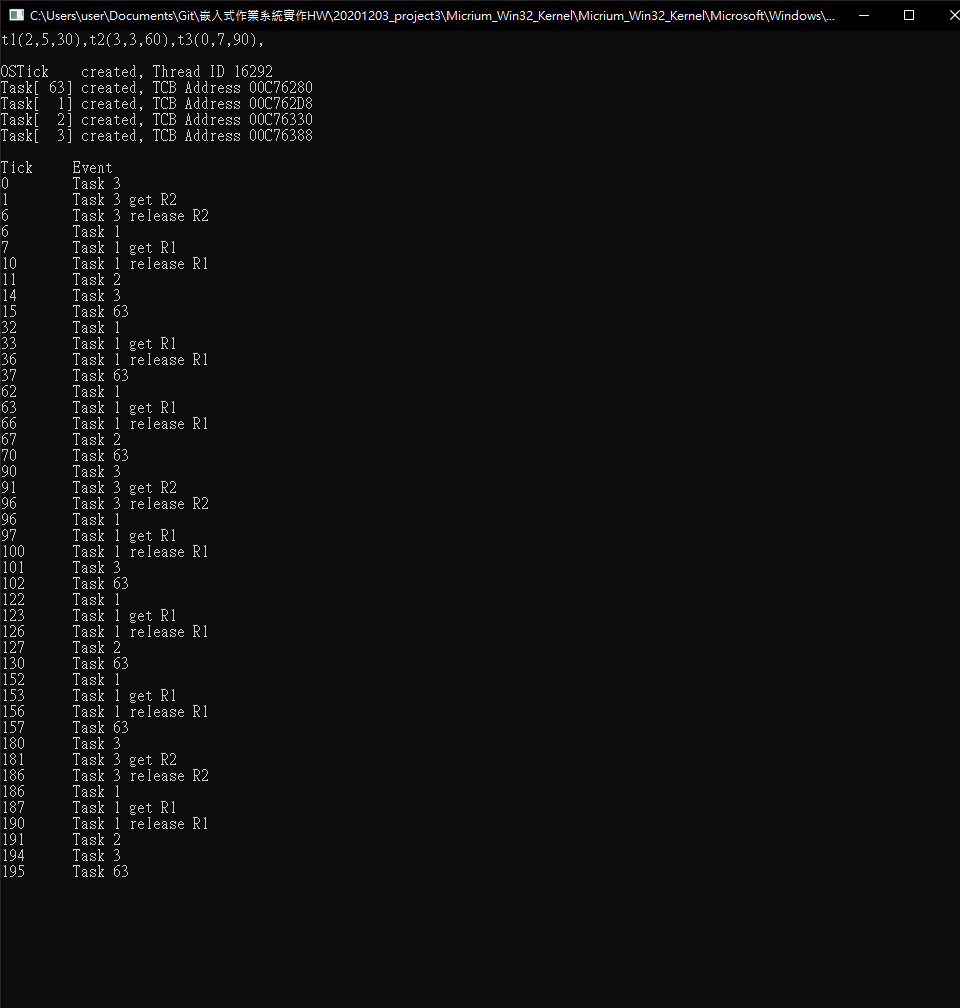
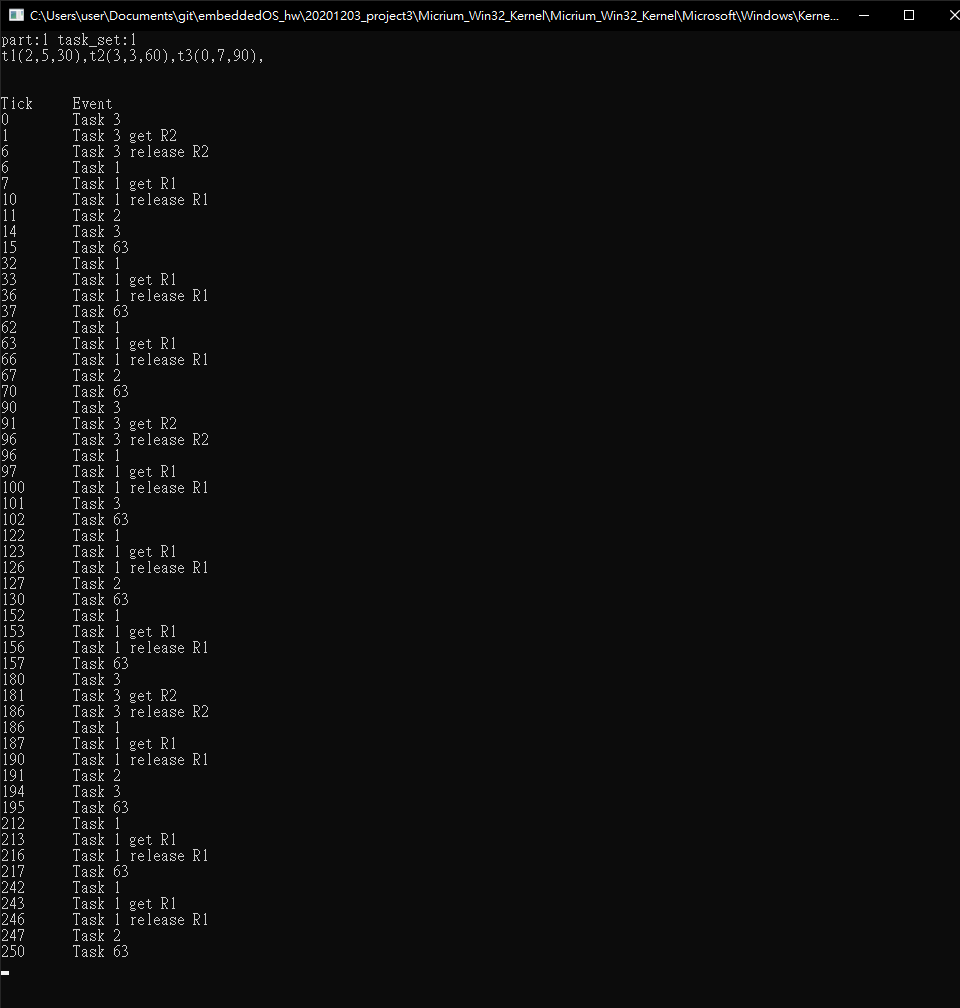
taskStart taskEnd

diff --git a/20201203_project3/Micrium_Win32_Kernel/Micrium_Win32_Kernel/Microsoft/Windows/Kernel/OS2/main.c b/20201203_project3/Micrium_Win32_Kernel/Micrium_Win32_Kernel/Microsoft/Windows/Kernel/OS2/main.c
@@ -238,116 +238,6 @@ static  void  StartupTask (void *p_arg)
 }
 
 /****************************************************************************************************
-*                      mywait
-* **************************************************************************************************/
-void mywait(int tick)
-{
-#if OS_CRITICAL_METHOD == 3
-    OS_CPU_SR cpu_sr = 0;
-#endif
-    // int now, exit;
-    int last, diff, taskNum, count = 0;
-    OS_ENTER_CRITICAL();
-    // now = OSTimeGet(); // Original but it will miss when interrupt
-    // exit = now + tick; // Original but it will miss when interrupt
-    last = OSTimeGet();
-    taskNum = OSTCBCur->OSTCBId; 
-    OS_EXIT_CRITICAL();
-    while (1)
-    {
-        OS_ENTER_CRITICAL();
-        diff = OSTimeGet() - last;
-        last = OSTimeGet();
-        if(diff >= 1)
-        {
-            count ++;
-            // printf(" \t # Task %d count:%d diff:%d\n", taskNum, count, diff); // debug
-        }
-         OS_EXIT_CRITICAL();
-
-        // if (exit <= OSTimeGet()) // Original but it will miss when interrupt
-        if (tick <= count)
-        {
-            break;
-        }
-    }
-    
-}
-
-/****************************************************************************************************
-*                      lock & unlock
-* **************************************************************************************************/
-
-void lock_R(int rVar) {
-    // INT8U err;
-    #if kevin_part == 1u
-    printf("%d \t Task %d get R%d \n", OSTimeGet(), OSTCBCur->OSTCBId, rVar);
-    OSSchedLock();
-    #elif kevin_part == 2u
-    int R_PRIO;
-    INT8U *OrgPrio;
-    if(rVar == 1)
-    {
-        R_PRIO = R1_PRIO;
-        OrgPrio = &(OSTCBCur->OrgPrio1);
-    }
-    else if (rVar == 2)
-    {
-        R_PRIO = R2_PRIO;
-        OrgPrio = &(OSTCBCur->OrgPrio2);
-    }
-    else
-    {   
-        printf("error! no rVar input\n");
-        while(1);
-    }
-    // OSMutexPend(R1, 0, &err);
-    INT8U prioVar = OSTCBCur->OSTCBPrio;
-    *OrgPrio = 0;
-    if(OSTCBCur->OSTCBPrio > R_PRIO)
-    {
-        prioVar = R_PRIO;
-    }
-    printf("%d \t Task %d get R%d     \t %d->%d \n", OSTimeGet(), OSTCBCur->OSTCBId, rVar, OSTCBCur->OSTCBPrio, prioVar);
-    if(prioVar != OSTCBCur->OSTCBPrio)
-    {
-        *OrgPrio = OSTCBCur->OSTCBPrio;
-        OSTaskChangePrio(OSTCBCur->OSTCBPrio, R_PRIO);
-    }
-    #endif
-}
-
-void unlock_R(int rVar) {
-    // INT8U err;
-    #if kevin_part == 1u
-    printf("%d \t Task %d release R%d \n", OSTimeGet(), OSTCBCur->OSTCBId, rVar);
-    OSSchedUnlock();
-    #elif kevin_part == 2u
-    INT8U *OrgPrio;
-    if(rVar == 1)
-        OrgPrio = &(OSTCBCur->OrgPrio1);
-    else if (rVar == 2)
-        OrgPrio = &(OSTCBCur->OrgPrio2);
-    else
-    {   
-        printf("error! no rVar input\n");
-        while(1);
-    }
-    // OSMutexPost(R1);
-    INT8U prioVar = OSTCBCur->OSTCBPrio;
-    if(*OrgPrio != 0)
-    {
-        prioVar = *OrgPrio;
-    }
-    printf("%d \t Task %d release R%d \t %d->%d \n", OSTimeGet(), OSTCBCur->OSTCBId, rVar, OSTCBCur->OSTCBPrio, prioVar);
-    if(prioVar != OSTCBCur->OSTCBPrio)
-    {
-        OSTaskChangePrio(OSTCBCur->OSTCBPrio, prioVar);
-    }
-    #endif
-}
-
-/****************************************************************************************************
 *                      task1
 * **************************************************************************************************/
 void task1(void* p_arg) {
@@ -355,14 +245,7 @@ void task1(void* p_arg) {
     // INT8U err;
     OSTimeDly(kevin_task1_periodic->arrival);
     while (1) {
-        // printf("Hello from task1\n");
-        // while (1); // kevin 讓他一直卡在裡面 靠OSintexit來切
-        
-        if(!(OSTimeGet()))
-            printf("%d \t Task %d\n", OSTimeGet(), OSTCBCur->OSTCBId);
-        kevin_task1_periodic->deadline = kevin_task1_periodic->arrival + kevin_task1_periodic->period * (kevin_task1_periodic->job + 1);
-        // printf("%d \t # Task 1 deadline:%d\n", OSTimeGet(), kevin_task1_periodic->deadline); // debug
-
+        taskStart();
         /****************************************************************************************************
          *                      Example task set 1
          * **************************************************************************************************/
@@ -414,11 +297,7 @@ void task1(void* p_arg) {
         mywait(1);
         #endif
         /*****************************************************************************************************/
-
-        kevin_task1_periodic->job ++;
-        // printf("%d \t # Task 1 OSTimeDly:%d\n", OSTimeGet(), kevin_task1_periodic->deadline - OSTimeGet()); // debug
-        OSTimeDly(kevin_task1_periodic->deadline - OSTimeGet());
-
+        taskEnd();
     }
 }
 
@@ -430,14 +309,7 @@ void task2(void* p_arg) {
     // INT8U err;
     OSTimeDly(kevin_task2_periodic->arrival);
     while (1) {
-        // printf("Hello from task2\n");
-        // while (1); // kevin 讓他一直卡在裡面 靠OSintexit來切
-
-        if(!(OSTimeGet()))
-            printf("%d \t Task %d\n", OSTimeGet(), OSTCBCur->OSTCBId);
-        kevin_task2_periodic->deadline = kevin_task2_periodic->arrival + kevin_task2_periodic->period * (kevin_task2_periodic->job + 1);
-        // printf("%d \t # Task 2 deadline:%d\n", OSTimeGet(), kevin_task2_periodic->deadline); // debug
-
+        taskStart();
         /****************************************************************************************************
          *                      Example task set 1
          * **************************************************************************************************/
@@ -492,10 +364,7 @@ void task2(void* p_arg) {
         mywait(1);
         #endif
         /*****************************************************************************************************/
-
-        kevin_task2_periodic->job ++;
-        // printf("%d \t # Task 2 OSTimeDly:%d\n", OSTimeGet(), kevin_task2_periodic->deadline - OSTimeGet()); // debug
-        OSTimeDly(kevin_task2_periodic->deadline - OSTimeGet());
+        taskEnd();
     }
 }
 
@@ -507,15 +376,7 @@ void task3(void* p_arg) {
     // INT8U err;
     OSTimeDly(kevin_task3_periodic->arrival);
     while (1) {
-        // printf("Hello from task3\n");
-        // while (1); // kevin 讓他一直卡在裡面 靠OSintexit來切
-
-        if(!(OSTimeGet()))
-            printf("%d \t Task %d\n", OSTimeGet(), OSTCBCur->OSTCBId);
-        kevin_task3_periodic->deadline = kevin_task3_periodic->arrival + kevin_task3_periodic->period * (kevin_task3_periodic->job + 1);
-        // printf("%d \t # Task 2 deadline:%d\n", OSTimeGet(), kevin_task3_periodic->deadline); // debug
-
-        
+        taskStart();
         /****************************************************************************************************
          *                      task set 1
          * **************************************************************************************************/
@@ -528,9 +389,6 @@ void task3(void* p_arg) {
         mywait(1);
         #endif
         /*****************************************************************************************************/
-        
-        kevin_task3_periodic->job ++;
-        // printf("%d \t # Task 2 OSTimeDly:%d\n", OSTimeGet(), kevin_task3_periodic->deadline - OSTimeGet()); // debug
-        OSTimeDly(kevin_task3_periodic->deadline - OSTimeGet());
+        taskEnd();
     }
 }

diff --git a/20201203_project3/Micrium_Win32_Kernel/Micrium_Win32_Kernel/Micrium/Software/uCOS-II/Source/os_core.c b/20201203_project3/Micrium_Win32_Kernel/Micrium_Win32_Kernel/Micrium/Software/uCOS-II/Source/os_core.c
@@ -2523,4 +2523,143 @@ void Kevin_end(void){
         kevin_arr_task_periodic[kevin_task_num].deadline = 0;
     }
 }
+
+/****************************************************************************************************
+*                      mywait
+* **************************************************************************************************/
+void mywait(int tick)
+{
+#if OS_CRITICAL_METHOD == 3
+    OS_CPU_SR cpu_sr = 0;
+#endif
+    // int now, exit;
+    int last, diff, taskNum, count = 0;
+    OS_ENTER_CRITICAL();
+    // now = OSTimeGet(); // Original but it will miss when interrupt
+    // exit = now + tick; // Original but it will miss when interrupt
+    last = OSTimeGet();
+    taskNum = OSTCBCur->OSTCBId; 
+    OS_EXIT_CRITICAL();
+    while (1)
+    {
+        OS_ENTER_CRITICAL();
+        diff = OSTimeGet() - last;
+        last = OSTimeGet();
+        if(diff >= 1)
+        {
+            count ++;
+            // printf(" \t # Task %d count:%d diff:%d\n", taskNum, count, diff); // debug
+        }
+         OS_EXIT_CRITICAL();
+
+        // if (exit <= OSTimeGet()) // Original but it will miss when interrupt
+        if (tick <= count)
+        {
+            break;
+        }
+    }
+}
+
+/****************************************************************************************************
+*                      lock
+* **************************************************************************************************/
+
+void lock_R(int rVar) {
+    // INT8U err;
+    #if kevin_part == 1u
+    printf("%d \t Task %d get R%d \n", OSTimeGet(), OSTCBCur->OSTCBId, rVar);
+    OSSchedLock();
+    #elif kevin_part == 2u
+    int R_PRIO;
+    INT8U *OrgPrio;
+    if(rVar == 1)
+    {
+        R_PRIO = R1_PRIO;
+        OrgPrio = &(OSTCBCur->OrgPrio1);
+    }
+    else if (rVar == 2)
+    {
+        R_PRIO = R2_PRIO;
+        OrgPrio = &(OSTCBCur->OrgPrio2);
+    }
+    else
+    {   
+        printf("error! no rVar input\n");
+        while(1);
+    }
+    // OSMutexPend(R1, 0, &err);
+    INT8U prioVar = OSTCBCur->OSTCBPrio;
+    *OrgPrio = 0;
+    if(OSTCBCur->OSTCBPrio > R_PRIO)
+    {
+        prioVar = R_PRIO;
+    }
+    printf("%d \t Task %d get R%d     \t %d->%d \n", OSTimeGet(), OSTCBCur->OSTCBId, rVar, OSTCBCur->OSTCBPrio, prioVar);
+    if(prioVar != OSTCBCur->OSTCBPrio)
+    {
+        *OrgPrio = OSTCBCur->OSTCBPrio;
+        OSTaskChangePrio(OSTCBCur->OSTCBPrio, R_PRIO);
+    }
+    #endif
+}
+
+/****************************************************************************************************
+*                      unlock
+* **************************************************************************************************/
+void unlock_R(int rVar) {
+    // INT8U err;
+    #if kevin_part == 1u
+    printf("%d \t Task %d release R%d \n", OSTimeGet(), OSTCBCur->OSTCBId, rVar);
+    OSSchedUnlock();
+    #elif kevin_part == 2u
+    INT8U *OrgPrio;
+    if(rVar == 1)
+        OrgPrio = &(OSTCBCur->OrgPrio1);
+    else if (rVar == 2)
+        OrgPrio = &(OSTCBCur->OrgPrio2);
+    else
+    {   
+        printf("error! no rVar input\n");
+        while(1);
+    }
+    // OSMutexPost(R1);
+    INT8U prioVar = OSTCBCur->OSTCBPrio;
+    if(*OrgPrio != 0)
+    {
+        prioVar = *OrgPrio;
+    }
+    printf("%d \t Task %d release R%d \t %d->%d \n", OSTimeGet(), OSTCBCur->OSTCBId, rVar, OSTCBCur->OSTCBPrio, prioVar);
+    if(prioVar != OSTCBCur->OSTCBPrio)
+    {
+        OSTaskChangePrio(OSTCBCur->OSTCBPrio, prioVar);
+    }
+    #endif
+}
+
+/****************************************************************************************************
+*                      task start
+* **************************************************************************************************/
+void taskStart()
+{
+    // printf("Hello from task%d\n", OSTCBCur->OSTCBId);
+    // while (1); // kevin 讓他一直卡在裡面 靠OSintexit來切
+    
+    kevin_arr_task_periodic[OSTCBCur->OSTCBId].response = OSTimeGet();
+    kevin_arr_task_periodic[OSTCBCur->OSTCBId].context = 0;
+    
+    if(!(OSTimeGet()))
+        printf("%d \t Task %d\n", OSTimeGet(), OSTCBCur->OSTCBId);
+    kevin_arr_task_periodic[OSTCBCur->OSTCBId].deadline = kevin_arr_task_periodic[OSTCBCur->OSTCBId].arrival + kevin_arr_task_periodic[OSTCBCur->OSTCBId].period * (kevin_arr_task_periodic[OSTCBCur->OSTCBId].job + 1);
+    // printf("%d \t # Task 1 deadline:%d\n", OSTimeGet(), kevin_arr_task_periodic[OSTCBCur->OSTCBId].deadline); // debug
+}
+
+/****************************************************************************************************
+*                      task end
+* **************************************************************************************************/
+void taskEnd()
+{
+    kevin_arr_task_periodic[OSTCBCur->OSTCBId].job ++;
+    // printf("%d \t # Task 1 OSTimeDly:%d\n", OSTimeGet(), kevin_arr_task_periodic[OSTCBCur->OSTCBId].deadline - OSTimeGet()); // debug
+    OSTimeDly(kevin_arr_task_periodic[OSTCBCur->OSTCBId].deadline - OSTimeGet());
+}
 /////////////////////////////////////////////////////////////////////////////////////////////////////////////////////
